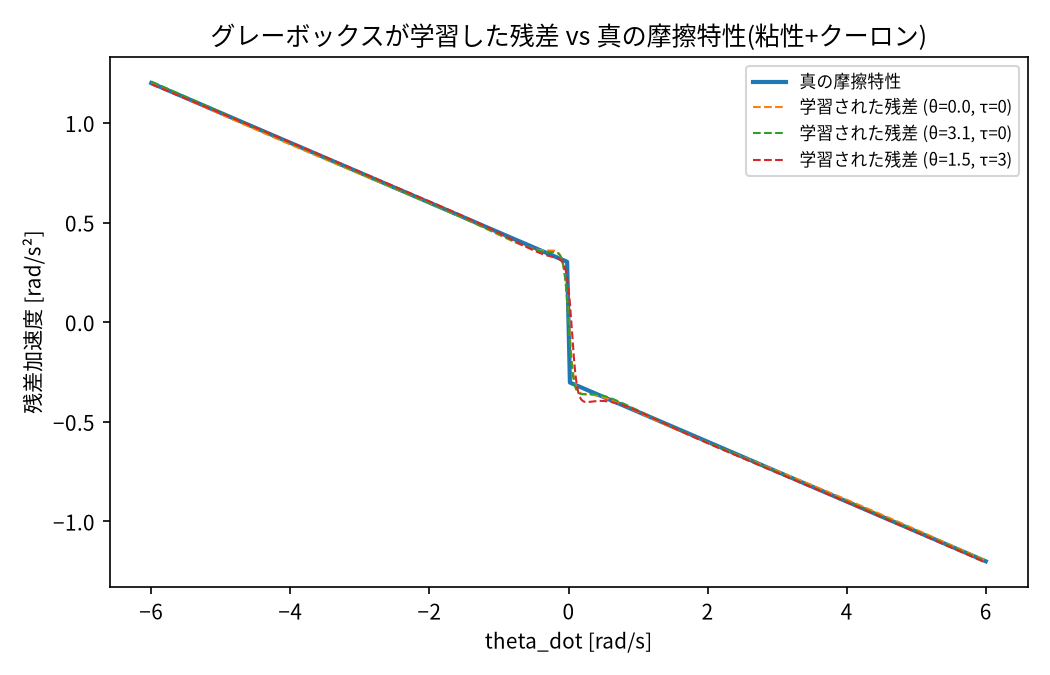
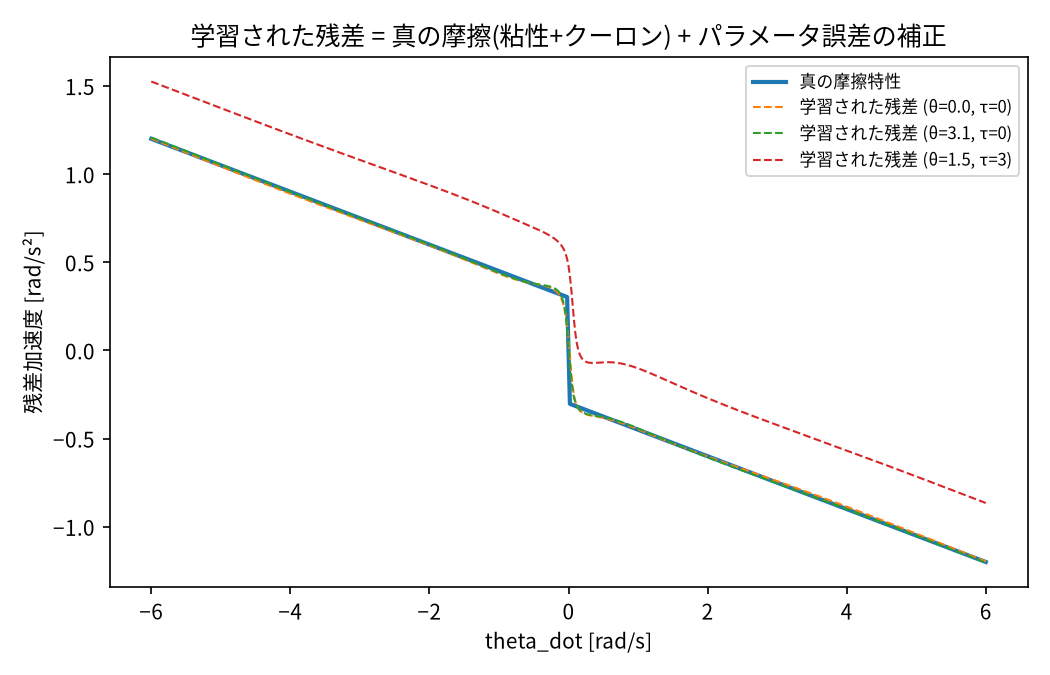
M16: パラメータ誤差(キャリブレーション誤差)下でのグレーボックス検証
M15は「知らない項がある」状況だったが、M16ではより厄介な「知っている
つもりの項が間違っている」状況を検証:
- 真の系: L=1.05, m=0.95(physics.py の L, M)
- グレーボックス/PIDが信じる公称値: L=1.0, m=1.0(L_NOMINAL, M_NOMINAL)
physics.py の dynamics/rk4_step/simulate/energy に length 引数を追加し、
真値と公称値を明確に分離した。

結果(同一学習レシピでの比較):
- 開ループRMSE(t=6s): ブラックボックス 5.05/4.18/4.31 に対し
  グレーボックス 0.52/0.38/0.32(10〜13倍の優位)
- M12スイープで真値の成功/失敗パターンと一致: 5/15 → 15/15(完全一致)
- M5グリッドで真値パターンと一致: 12/18 → 18/18(完全一致)
- MPC安定化誤差: グレーボックス0.0342、オラクル0.0218

予想に反してパラメータ誤差はグレーボックスの弱点にならなかった。残差NNが
誤差補正を正しく吸収しており、学習された残差は「真の摩擦 + 重力項の誤差
+ トルク項の誤差」という理論通りの形になっている(θ=1.5,τ=3でのオフセット
+0.33は理論値+0.466-0.136と一致)。一方ブラックボックスはM5/M12で見た
楽観バイアスが顕著に再発し、真値が失敗する条件でも全て成功してしまう。

副次的な発見: パラメータ誤差でトルク余裕が約5%減っただけで、MPCの
W_CONTROL=0.01 では「何もしない」方がコスト最小になりオラクルMPCすら
スイングアップしなくなった(M4で最初に踏んだのと同じ脆弱性)。重みを
0.001に下げて回復させた(オラクル・サロゲート双方に同一適用のため比較の
公平性は保たれる)。

Refs #33

Claude-Session: https://claude.ai/code/session_01Rvrf6mcbh1UrexApn66z2b

diff --git a/src/model.py b/src/model.py
@@ -15,7 +15,7 @@ import numpy as np
 import torch
 import torch.nn as nn
 
-from src.physics import G, L, M
+from src.physics import G, L_NOMINAL, M_NOMINAL
 
 STATE_ENC_DIM = 3  # sin(theta), cos(theta), theta_dot
 CONTROL_DIM = 1  # u (M1では常に0)
@@ -129,7 +129,10 @@ class GrayBoxNSSModel(AutoregressiveModel):
     加速度を
         theta_ddot = -(g/L) sin(theta) + tau/(m L^2) + NN_residual(sin, cos, theta_dot, tau)
     と分解し、既知項(重力・トルク入力)と積分構造(RK4)はハードコードする。
-    NNが担うのは未知成分のみで、真の系ではこれは減衰項 -c*theta_dot に相当する。
+
+    既知項に使うL, mは**公称値**(L_NOMINAL, M_NOMINAL)であり、真の系の値とは
+    キャリブレーション誤差がある(M16 #33)。したがってNNが担う残差は
+    「真の摩擦(粘性+クーロン) + パラメータ誤差に起因する補正」になる。
 
     ブラックボックス版と違い theta を atan2 で毎ステップ畳み込まないため、出力の
     theta は連続(unwrap済み相当)になる。角度差を扱う下流コードは全てwrapに対して
@@ -149,7 +152,7 @@ class GrayBoxNSSModel(AutoregressiveModel):
     def dynamics(self, state: torch.Tensor, u: torch.Tensor) -> torch.Tensor:
         """dx/dt = [theta_dot, theta_ddot]。 (..., 2) -> (..., 2)"""
         theta, theta_dot = state[..., 0], state[..., 1]
-        known_acc = -(G / L) * torch.sin(theta) + u[..., 0] / (M * L**2)
+        known_acc = -(G / L_NOMINAL) * torch.sin(theta) + u[..., 0] / (M_NOMINAL * L_NOMINAL**2)
         theta_ddot = known_acc + self.residual_acceleration(state, u)
         return torch.stack([theta_dot, theta_ddot], dim=-1)
 

diff --git a/src/evaluate_graybox.py b/src/evaluate_graybox.py
@@ -124,8 +124,14 @@ def plot_comparison(
 def plot_learned_residual(graybox: GrayBoxNSSModel) -> None:
     """グレーボックスが学習した残差加速度と、真の摩擦特性を重ねて比較する。
 
-    真の未知項は粘性摩擦 + クーロン摩擦 = -c*theta_dot - c_coulomb*sign(theta_dot) で、
-    theta_dot=0 で不連続。NNがこの不連続をどこまで再現できるかを見る。
+    残差NNが担うのは以下の2つ:
+    - 真の摩擦(粘性 + クーロン): -c*theta_dot - c_coulomb*sign(theta_dot)。
+      theta_dot=0 で不連続。
+    - パラメータ誤差の補正(M16 #33): 既知項を公称値 L_NOMINAL, M_NOMINAL で
+      計算しているため、真値との差 (g/L_nom - g/L_true)sin(theta) および
+      tau/(m_nom L_nom^2) - tau/(m L^2) を残差が吸収する必要がある。
+      前者は theta に、後者は tau に依存するため、sin(theta) や tau が 0 でない
+      条件では残差が摩擦特性から上下にシフトする。
     """
     theta_dot_grid = np.linspace(-6.0, 6.0, 601)
     truth = friction_acceleration(theta_dot_grid, DAMPING, C_COULOMB)
@@ -146,7 +152,7 @@ def plot_learned_residual(graybox: GrayBoxNSSModel) -> None:
 
     plt.xlabel("theta_dot [rad/s]")
     plt.ylabel("残差加速度 [rad/s²]")
-    plt.title("グレーボックスが学習した残差 vs 真の摩擦特性(粘性+クーロン)")
+    plt.title("学習された残差 = 真の摩擦(粘性+クーロン) + パラメータ誤差の補正")
     plt.legend(fontsize=8)
     plt.tight_layout()
     plt.savefig(f"{OUT_DIR}/graybox_residual.png", dpi=150)

diff --git a/tests/test_model_graybox.py b/tests/test_model_graybox.py
@@ -2,7 +2,7 @@ import numpy as np
 import torch
 
 from src.model import GrayBoxNSSModel
-from src.physics import rk4_step
+from src.physics import L_NOMINAL, M_NOMINAL, rk4_step
 
 
 def _zero_residual_model() -> GrayBoxNSSModel:
@@ -15,9 +15,11 @@ def _zero_residual_model() -> GrayBoxNSSModel:
 
 
 def test_zero_residual_matches_known_physics():
-    """残差が0なら、グレーボックスの1ステップは既知物理(無減衰RK4)と一致すること。
+    """残差が0なら、グレーボックスの1ステップは既知物理(無摩擦RK4)と一致すること。
 
     既知構造(重力項・トルク入力項・RK4積分)がハードコードされていることの検証。
+    グレーボックスが信じている公称パラメータ(L_NOMINAL, M_NOMINAL)で比較する
+    (真の系のL, Mとはキャリブレーション誤差がある: M16 #33)。
     """
     model = _zero_residual_model()
     dt = model.dt
@@ -28,7 +30,10 @@ def test_zero_residual_matches_known_physics():
 
         with torch.no_grad():
             predicted = model.step(state, u).numpy()
-        expected = rk4_step(np.array([theta, theta_dot]), dt, c=0.0, tau=tau, c_coulomb=0.0)
+        expected = rk4_step(
+            np.array([theta, theta_dot]), dt, c=0.0, tau=tau,
+            m=M_NOMINAL, c_coulomb=0.0, length=L_NOMINAL,
+        )
 
         assert np.allclose(predicted, expected, atol=1e-5)
 

diff --git a/src/pid.py b/src/pid.py
@@ -10,7 +10,7 @@ M6ではPIDの目標角度を一般化し、倒立近傍の異なる目標角度
 import numpy as np
 
 from src.model import AutoregressiveModel
-from src.physics import G, L, M, rk4_step
+from src.physics import G, L_NOMINAL, M_NOMINAL, rk4_step
 
 DT = 0.02
 TAU_MAX = 4.0
@@ -33,8 +33,11 @@ def gravity_feedforward(target: float) -> float:
     theta=pi(倒立)ではsin(pi)=0のためゼロになりM5の挙動と一致するが、
     倒立近傍の他の目標角度では重力が theta_ddot に -(g/L)sin(theta) の
     定常的な偏りを与えるため、PIDの積分項だけに頼らずこれを直接打ち消す。
+
+    設計者が知り得るのは公称値のみなので L_NOMINAL, M_NOMINAL を使う(M16 #33)。
+    真値とのズレは積分項が吸収する。
     """
-    return M * G * L * np.sin(target)
+    return M_NOMINAL * G * L_NOMINAL * np.sin(target)
 
 
 def angular_error_to_inverted(theta: np.ndarray) -> np.ndarray:

diff --git a/src/control.py b/src/control.py
@@ -19,7 +19,12 @@ HORIZON = 60  # 1.2秒先まで予測(スイングアップに必要な往復を
 N_CANDIDATES = 300
 W_TERMINAL_POSITION = 5.0  # ホライズン終端で倒立に近いことを重視
 W_TERMINAL_VELOCITY = 0.1  # ホライズン終端で静止していることを重視(安定化)
-W_CONTROL = 0.01
+# M16 (#33): パラメータ誤差でトルク余裕が約5%減った結果、W_CONTROL=0.01 では
+# 「何もしない」方がコスト最小になりオラクルMPCすらスイングアップしなくなった
+# (M4で最初に踏んだのと同じ、サンプリングMPCのコスト設計の脆弱性)。
+# 制御コストの重みを下げて行動する誘因を回復させる。オラクル・サロゲート双方に
+# 同一に適用されるため、両者の比較の公平性は保たれる。
+W_CONTROL = 0.001
 
 OMEGA_NATURAL = np.sqrt(G / L)
 OMEGA_RANGE = (0.3 * OMEGA_NATURAL, 1.3 * OMEGA_NATURAL)

diff --git a/LESSONS.md b/LESSONS.md
@@ -174,14 +174,42 @@ NNが「難しい部分だけ」に集中できるという狙いが機能して
 誤差自体は悪化しており(ゼロトルク条件で0.17→0.57)、未知項が難しくなった分の
 コストは確かに存在する。
 
-9. **既知構造の埋め込みは、未知項が難しくなっても有効**(M15)。M14の優位性は
-   「未知項が自明に簡単だったから」ではなく、構造そのものの効果だと確認できた。
+### M16: パラメータ誤差(知っているつもりの項が間違っている)
+
+M15は「知らない項がある」状況だった。M16 (#33) ではより厄介な**キャリブレーション誤差**を
+検証した: 真の系を `L=1.05, m=0.95` にする一方、グレーボックスとPIDは公称値
+`L=1.0, m=1.0` を信じたまま(実機で必ず生じる状況)。グレーボックスは「間違った構造」を
+埋め込んでしまうため、これがグレーボックス手法の本質的な弱点になりうると予想された。
+
+| 指標 | ブラックボックス | グレーボックス |
+|---|---|---|
+| 開ループRMSE (ゼロトルク / ランダム / 共振) | 5.05 / 4.18 / 4.31 | **0.52 / 0.38 / 0.32** |
+| M12スイープで真値の成功/失敗パターンと一致 | 5/15 | **15/15(完全一致)** |
+| M5グリッドで真値の成功/失敗パターンと一致 | 12/18 | **18/18(完全一致)** |
+| MPC安定化誤差 平均(オラクル=0.0218) | — | **0.0342** |
+
+**予想に反して、パラメータ誤差はグレーボックスの弱点にならなかった。** 残差NNが
+パラメータ誤差の補正を正しく吸収しており、学習された残差は
+「真の摩擦 + (g/L_nom - g/L_true)sinθ + トルク項の誤差」という理論通りの形になっていた
+(θ=1.5, τ=3でのオフセット +0.33 は、重力項の誤差 +0.466 とトルク項の誤差 -0.136 の
+和に一致)。
+
+一方**ブラックボックスはこの条件で M5/M12 で見た楽観バイアスが顕著に再発**し、
+真値が失敗する条件でも全て成功してしまう(M12スイープ15/15成功、真値は5/15)。
+パターン一致は5/15まで落ちた。
+
+9. **既知構造の埋め込みは、未知項が難しくなっても、既知項が多少間違っていても有効**
+   (M15, M16)。M14の優位性は「未知項が自明に簡単だったから」ではなく、構造そのものの
+   効果だと確認できた。パラメータに5%の誤差があっても、残差NNがその補正を吸収するため、
+   「間違った構造を信じるリスク」は(少なくともこの規模の誤差では)顕在化しなかった。
+10. **サンプリングベースMPCのコスト重み設計は、プラントの変化に対して脆い**(M16)。
+   パラメータ誤差でトルク余裕が5%減っただけで、`W_CONTROL=0.01` では「何もしない」方が
+   コスト最小になり、オラクルMPCすらスイングアップしなくなった(M4で最初に踏んだのと
+   同じ失敗)。重みを0.001に下げて回復させた。制御器のチューニングもプラント変化に対する
+   検証対象に含めるべき。
 
 ## 今後の課題
 
-- パラメータ誤差(真の系は `L=1.05, m=0.95` だがグレーボックスは `L=1.0, m=1.0` と
-  信じている)がある場合の検証。M15は「知らない項がある」ケースだったが、次は
-  「知っているつもりの項が間違っている」ケース。
 - アンサンブル+不確実性推定により「サロゲートが外挿している領域」を検出できるようにする
   (実機適用時の安全マージン設定に必要)。
 - アクチュエータ遅れのような、状態に現れない内部ダイナミクスがある場合の検証。

diff --git a/README.md b/README.md
@@ -45,6 +45,10 @@ pip install -r requirements.txt
   既知として持たない項)を追加して公平に再検証。**本当の未知項がある状況でも
   グレーボックスの優位性は維持**された(開ループRMSEで6〜12倍、M5グリッドの
   真値パターン一致で14/18→18/18)。
+- **M16** (完了, #33): さらに「知っているつもりの項が間違っている」状況として、真の系を
+  `L=1.05, m=0.95` にしつつグレーボックス/PIDは公称値 `L=1.0, m=1.0` を信じたまま検証。
+  **パラメータ誤差があってもグレーボックスの優位性は維持**され、残差NNが誤差補正を
+  吸収した(真値の成功/失敗パターン一致: ブラックボックス12/18に対しグレーボックス18/18)。
 
 M1-M9の詳細な要約・横断的な教訓は [LESSONS.md](LESSONS.md) を参照。
 
